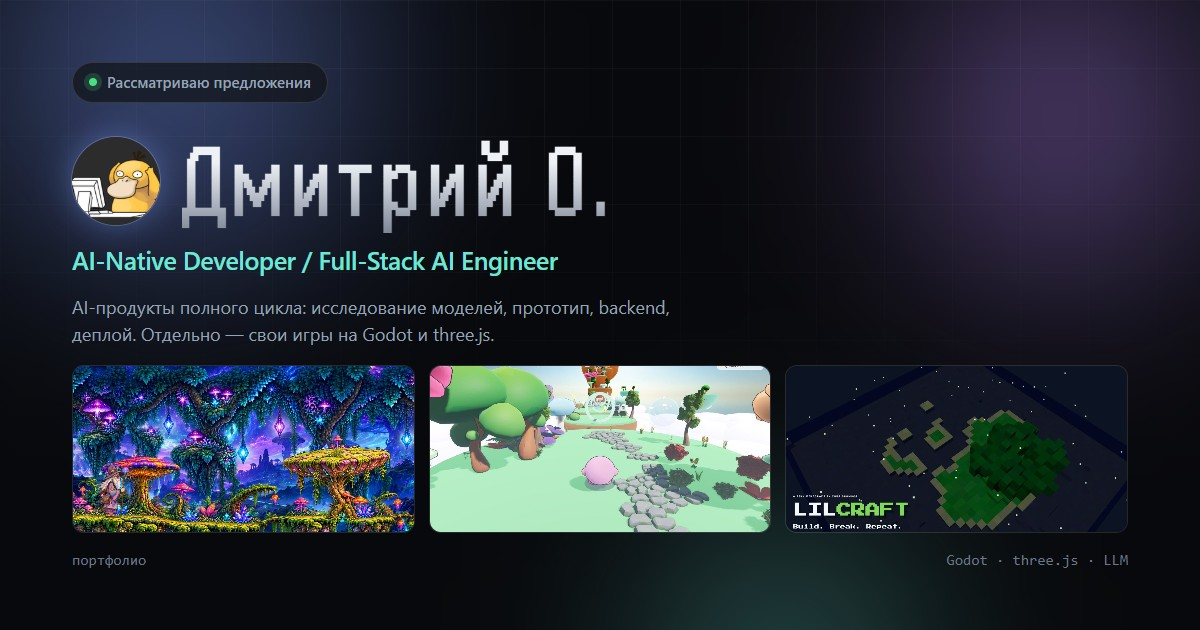
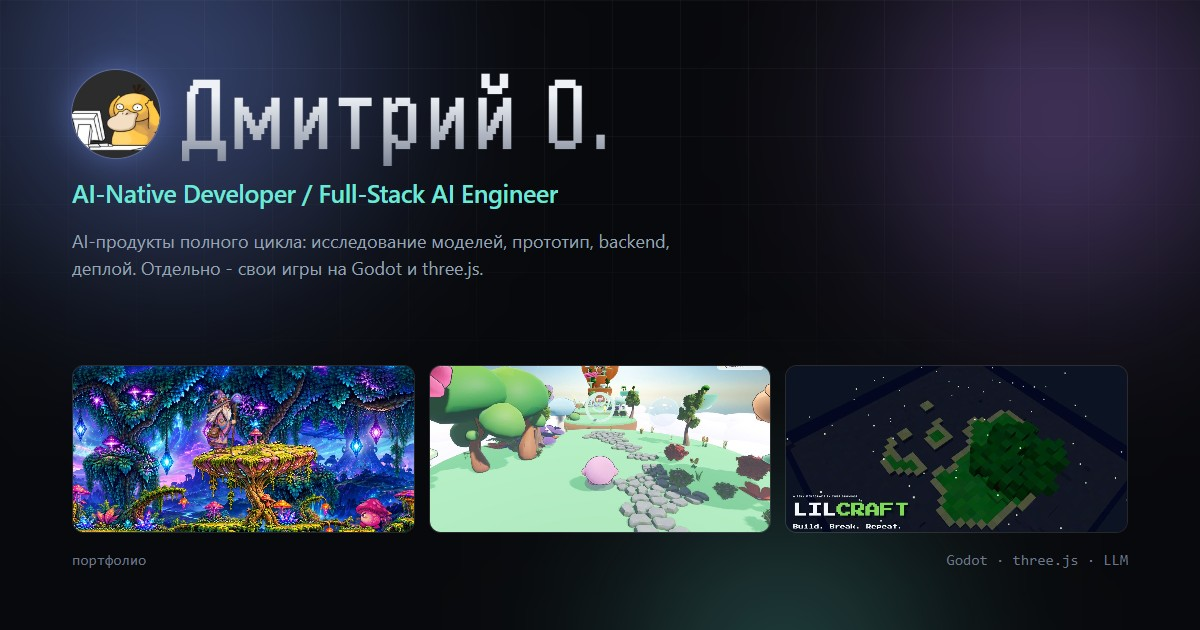
og: убран чип «Рассматриваю предложения», длинное тире -> дефис

Changed region(s): [[0.0308, 0.0905, 0.555, 0.4524], [0.0617, 0.573, 0.37, 0.8444], [0.0617, 0.4825, 0.555, 0.5429]]

diff --git a/tools/og.html b/tools/og.html
@@ -26,14 +26,7 @@
   }
   .in { position: relative; z-index: 2; padding: 62px 72px; height: 100%; display: flex; flex-direction: column; }
 
-  .eyebrow {
-    display: inline-flex; align-items: center; gap: 10px; align-self: flex-start;
-    padding: 8px 16px; border: 1px solid rgba(255,255,255,.12); border-radius: 999px;
-    background: rgba(15,18,23,.7); color: #97a3b4; font-size: 15px; font-weight: 500;
-  }
-  .dot { width: 8px; height: 8px; border-radius: 50%; background: #4ade80; box-shadow: 0 0 0 5px rgba(74,222,128,.18); }
-
-  .name { display: flex; align-items: center; gap: 22px; margin: 26px 0 8px; }
+  .name { display: flex; align-items: center; gap: 22px; margin: 0 0 8px; }
   .mark {
     width: 88px; height: 88px; flex: none; border-radius: 50%; object-fit: cover;
     box-shadow: 0 0 0 1px rgba(255,255,255,.18), 0 0 40px -8px rgba(124,156,255,.8);
@@ -63,13 +56,12 @@
   <div class="grid"></div>
 
   <div class="in">
-    <span class="eyebrow"><span class="dot"></span>Рассматриваю предложения</span>
     <div class="name">
       <img class="mark" src="../assets/img/logo.png" alt="">
       <h1>Дмитрий О.</h1>
     </div>
     <div class="role">AI-Native Developer / Full-Stack AI Engineer</div>
-    <p class="lead">AI-продукты полного цикла: исследование моделей, прототип, backend, деплой. Отдельно — свои игры на Godot и three.js.</p>
+    <p class="lead">AI-продукты полного цикла: исследование моделей, прототип, backend, деплой. Отдельно - свои игры на Godot и three.js.</p>
 
     <div class="shots">
       <img src="../assets/img/projects/shrooms.jpg" alt="">

diff --git a/index.html b/index.html
@@ -8,7 +8,7 @@
 <meta name="color-scheme" content="dark light">
 <meta name="theme-color" content="#08090c">
 <meta property="og:type" content="website">
-<meta property="og:title" content="Дмитрий О. — AI-Native Developer">
+<meta property="og:title" content="Дмитрий О. - AI-Native Developer">
 <meta property="og:description" content="AI-продукты полного цикла. Плюс собственные игры на Godot и three.js.">
 <meta property="og:image" content="assets/img/og.jpg">
 <meta name="twitter:card" content="summary_large_image">
